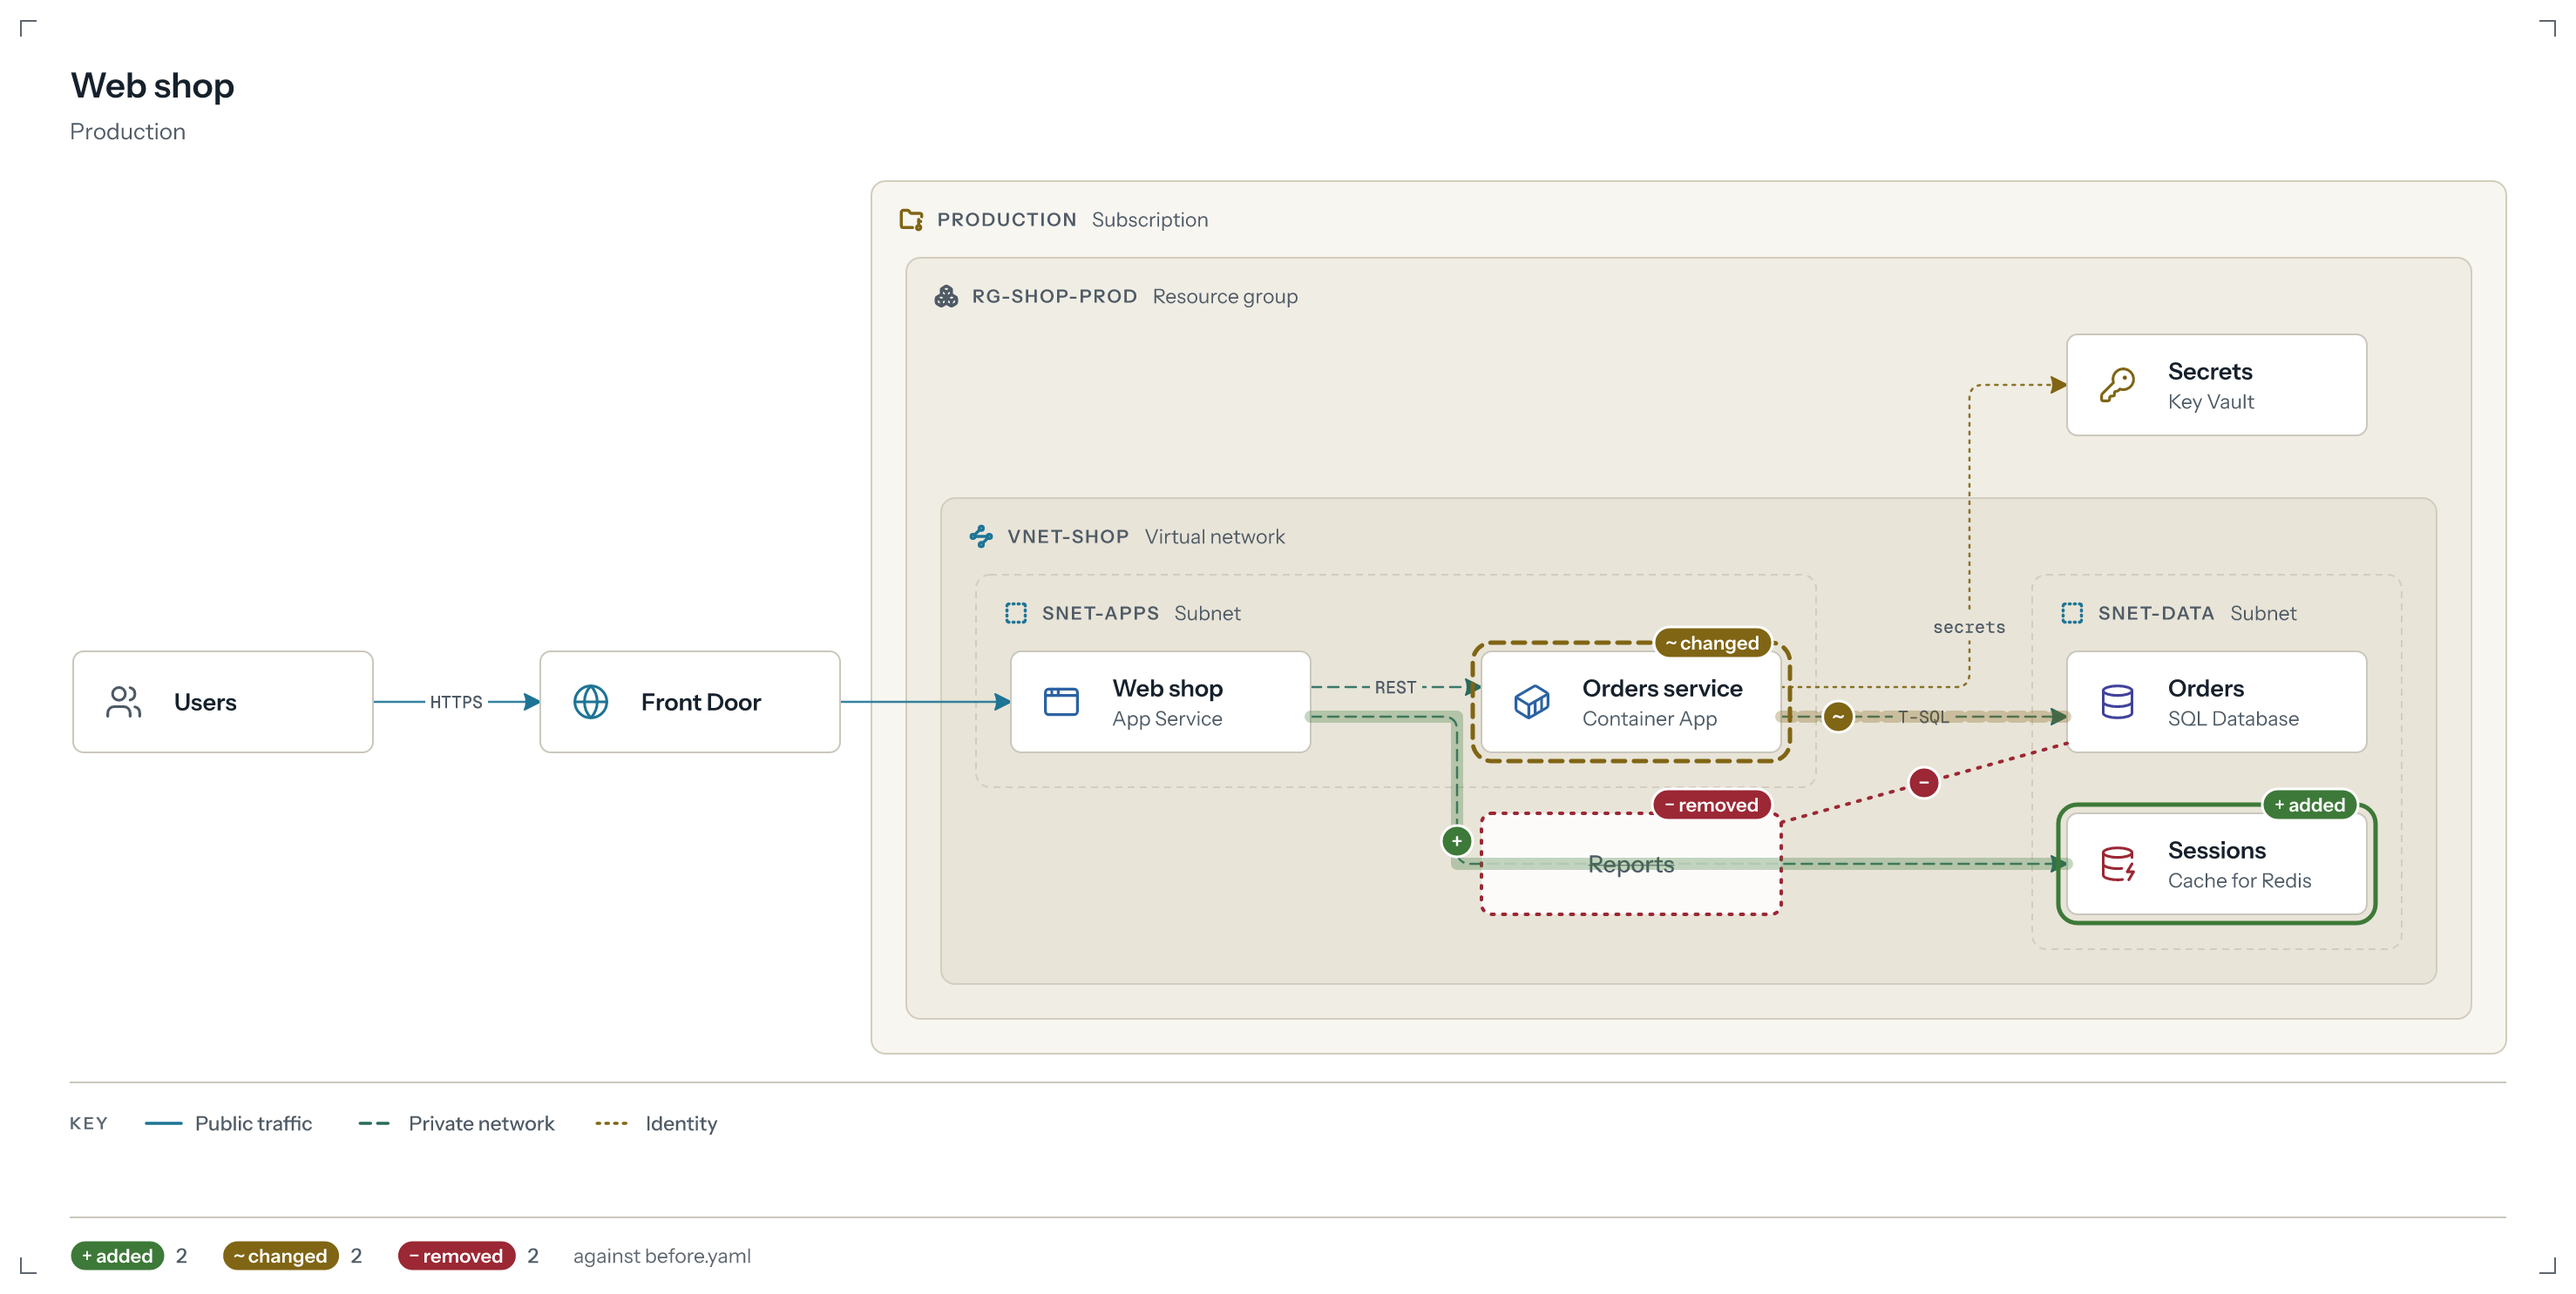
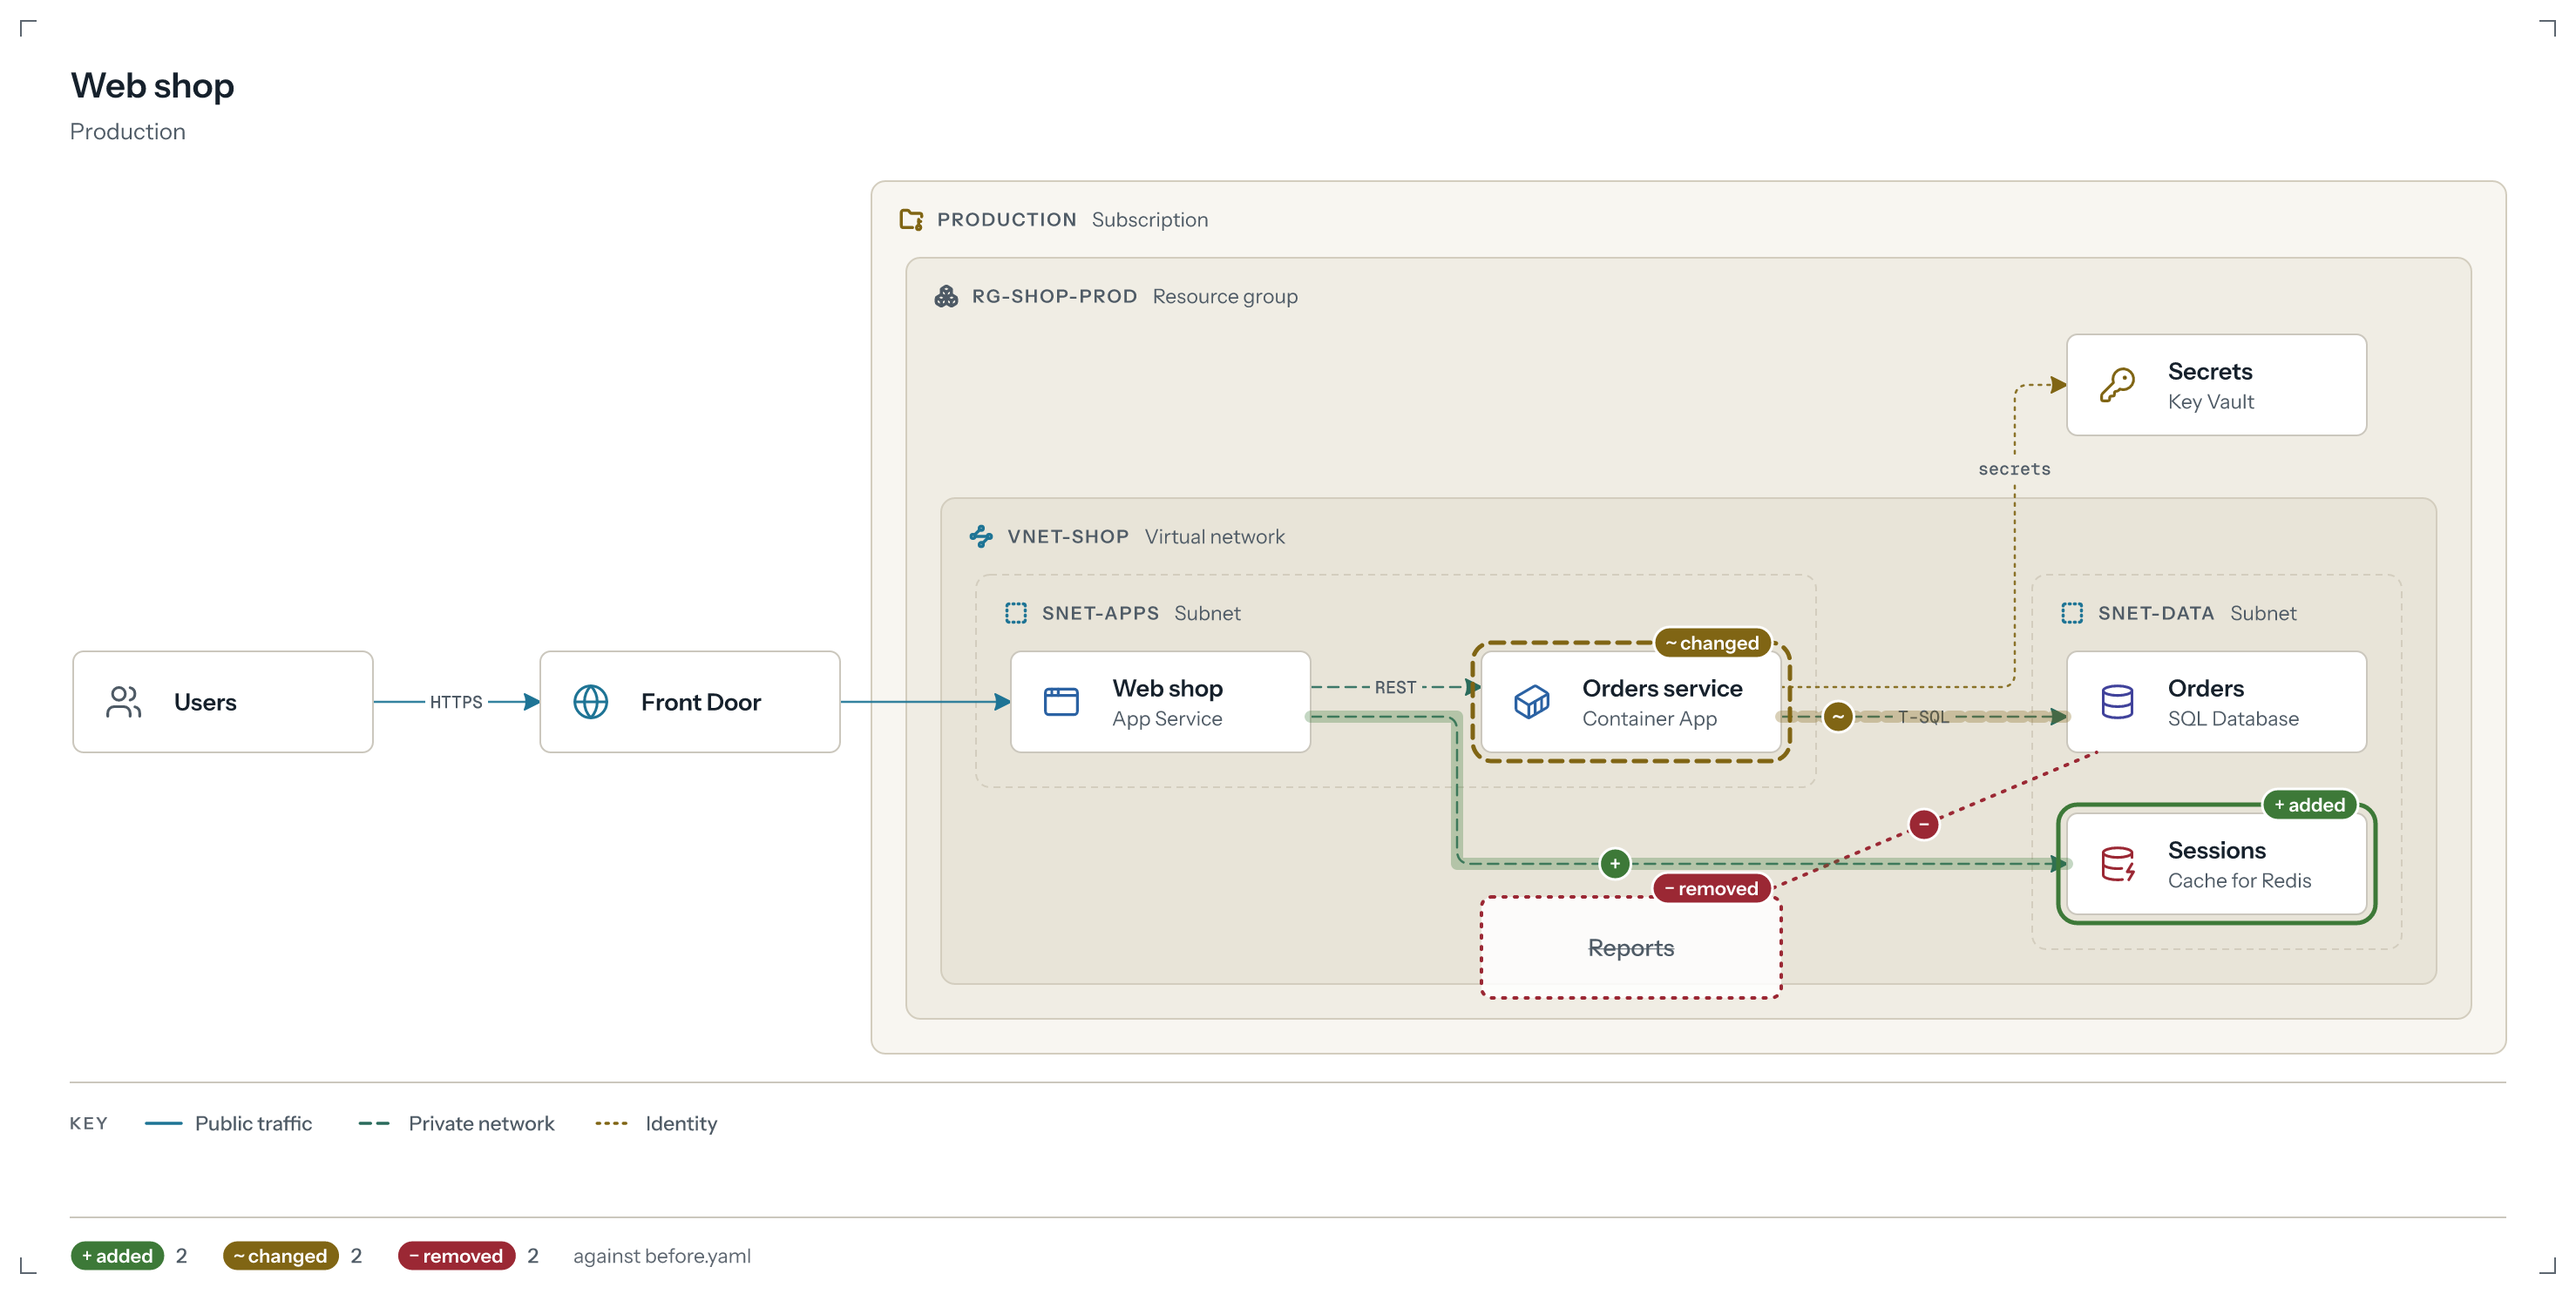
Diff: what is gone is drawn clear of the lines that are there now
A removed card was drawn where it stood whenever no card of the newer
drawing was there. The lines were not looked at, so in the pull request
of the docs the new line from the web shop to the cache ran straight
through the dotted outline of Reports.

A ghost now also keeps clear of the lines and line labels of the newer
drawing: it stands where it stood, or at the nearest clear spot up to
its own size away, and goes to the row below the drawing when there is
none. A line that is gone keeps its old route only to a ghost that
stands exactly where the card stood.

New test on the docs example: no line of the newer drawing runs through
a ghost (fails on the old code). docs/ci/diff.png redrawn.

Claude-Session: https://claude.ai/code/session_01NyzyPhzV2RHZLQ3eD8NAEL

Changed region(s): [[0.5602, 0.5882, 0.7781, 0.7739], [0.747, 0.4643, 0.7781, 0.4953]]

diff --git a/packages/diff/src/overlay.ts b/packages/diff/src/overlay.ts
@@ -186,7 +186,15 @@ function ghosts(before: Drawing, after: Drawing, diff: GraphDiff): { svg: string
 
   const out: string[] = [];
   const placedGhosts = new Map<string, Box>();
+  // Ghosts that stand right where the card stood: only those keep the old route of a line that is gone.
+  const inPlace = new Set<string>();
   const row: Ghost[] = [];
+  // What a ghost must not cover: the cards, lines and line labels of the newer drawing.
+  const lines = [...after.placed.edges.values()].flatMap((r) => [
+    ...r.points.slice(1).map((q, i) => ({ x: Math.min(q.x, r.points[i]!.x), y: Math.min(q.y, r.points[i]!.y), width: Math.abs(q.x - r.points[i]!.x), height: Math.abs(q.y - r.points[i]!.y) })),
+    ...(r.label ? [r.label] : []),
+  ]);
+  const free = (b: Box) => ![...after.placed.nodes.values(), ...placedGhosts.values()].some((o) => hit(b, o, 6)) && !lines.some((l) => hit({ ...b, y: b.y - TAG / 2, height: b.height + TAG / 2 }, l, 6));
   let bounds: Box | undefined;
   const grow = (b: Box) => {
     const x0 = Math.min(bounds?.x ?? b.x, b.x);
@@ -209,10 +217,17 @@ function ghosts(before: Drawing, after: Drawing, diff: GraphDiff): { svg: string
   for (const n of diff.nodes) {
     const was = before.placed.nodes.get(n.id);
     if (n.status !== 'removed' || !was) continue;
-    const b = shift ? moved(was) : undefined;
-    const free = b && ![...after.placed.nodes.values(), ...placedGhosts.values()].some((o) => hit(b, o, 6));
-    if (b && free) {
+    // Where it stood, or the nearest clear spot up to its own size away: a line that now runs there
+    // would otherwise seem to go through it.
+    const stood = shift ? moved(was) : undefined;
+    const steps = stood ? [0, ...Array.from({ length: Math.ceil(Math.max(stood.width, stood.height) / 16) }, (_, i) => (i + 1) * 16)] : [];
+    const b = steps
+      .flatMap((d) => (d ? [{ x: 0, y: d }, { x: 0, y: -d }, { x: d, y: 0 }, { x: -d, y: 0 }] : [{ x: 0, y: 0 }]).filter((o) => Math.abs(o.x) <= stood!.width && Math.abs(o.y) <= stood!.height))
+      .map((o) => ({ ...stood!, x: stood!.x + o.x, y: stood!.y + o.y }))
+      .find(free);
+    if (b) {
       placedGhosts.set(n.id, b);
+      if (b.x === stood!.x && b.y === stood!.y) inPlace.add(n.id);
       grow({ x: b.x - 5, y: b.y - 5 - TAG / 2, width: b.width + 10, height: b.height + 10 + TAG / 2 });
       out.push(ghostCard(theme, n.id, label(n.id), b));
     } else row.push({ id: n.id, label: label(n.id), box: was });
@@ -225,7 +240,7 @@ function ghosts(before: Drawing, after: Drawing, diff: GraphDiff): { svg: string
     if (!old || old.badge) continue;
     const end = (id: string): { box: Box; still: boolean } | undefined => {
       const ghost = placedGhosts.get(id);
-      if (ghost) return { box: ghost, still: true };
+      if (ghost) return { box: ghost, still: inPlace.has(id) };
       const [now, was] = [after.placed.nodes.get(id), before.placed.nodes.get(id)];
       if (!now || !was) return undefined;
       return { box: now, still: Math.abs(now.x - was.x - shift.x) < 2 && Math.abs(now.y - was.y - shift.y) < 2 };

diff --git a/packages/diff/test/diff.test.ts b/packages/diff/test/diff.test.ts
@@ -1,4 +1,5 @@
 // What changed between two versions of a diagram: as data, as words and as marks on the picture.
+import fs from 'node:fs';
 import { describe, expect, it } from 'vitest';
 import { compare, formatDiff, markdownDiff, summary } from '../src/index.ts';
 
@@ -212,6 +213,22 @@ describe('visual diff', () => {
     const shift = { x: Number(ghost[1]) - old.x, y: Number(ghost[2]) - old.y };
     const follows = Math.abs(shift.x - (db.now.x - db.was.x)) < 200 && Math.abs(shift.y - (db.now.y - db.was.y)) < 200;
     expect(follows || svg.includes('No longer in the drawing')).toBe(true);
+  });
+
+  it('draws what is gone clear of the lines that are there now', async () => {
+    // The pull request of the docs: the line to the new cache runs where Reports stood.
+    const doc = (name: string) => fs.readFileSync(new URL(`../../../docs/ci/${name}.yaml`, import.meta.url), 'utf8');
+    const c = await compare(doc('before'), doc('after'));
+    const svg = c.picture()!.svg;
+    const ghosts = [...svg.matchAll(/<g data-diff="removed" data-node="[^"]*"><rect x="([\d.-]+)" y="([\d.-]+)" width="([\d.-]+)" height="([\d.-]+)"/g)].map((m) => m.slice(1, 5).map(Number));
+    expect(ghosts.length).toBeGreaterThan(0);
+    for (const [x, y, w, h] of ghosts as [number, number, number, number][])
+      for (const r of c.after!.placed!.edges.values())
+        for (const [i, q] of r.points.slice(1).entries()) {
+          const p = r.points[i]!;
+          const through = Math.min(p.x, q.x) < x + w && Math.max(p.x, q.x) > x && Math.min(p.y, q.y) < y + h && Math.max(p.y, q.y) > y;
+          expect(through).toBe(false);
+        }
   });
 
   it('keeps what both versions have in place, unless asked to draw afresh', async () => {
